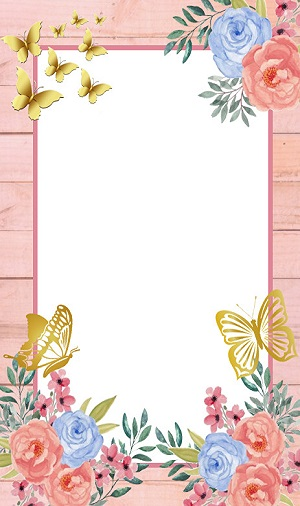
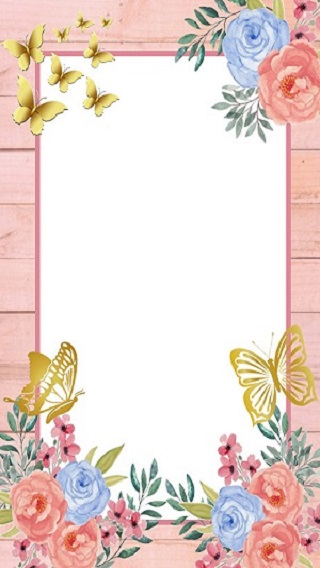
g

diff --git a/src/App.css b/src/App.css
@@ -4,22 +4,23 @@
 
 .App{
   margin: 0 auto;
-  background-image: url('/public/hoja.jpg');
-  background-repeat: no-repeat;
-  background-size: 100% 100%;
-width: 60vmax;
   height: 100vh;
   position: relative;
  
 }
+.fondo{
+  width: 100%;
+ 
+}
 
 .container-info{
-  
+ 
   position: absolute;
-  top: 70px;
+  top: 30px;
   left: 50px;
   right: 50px;
   bottom: 60px;
+  
 
   display: flex;
   flex-direction: column;

diff --git a/src/App.jsx b/src/App.jsx
@@ -7,6 +7,7 @@ function App() {
 
   return (
     <div className="App">
+      <img src="/hoja.jpg" alt="" className="fondo" />
       <div className='container-info'>
         <h2 className="teInvito">Te Invito a celebrar</h2>
         <h2 className="Micumple">Mi Cumpleaños</h2>
